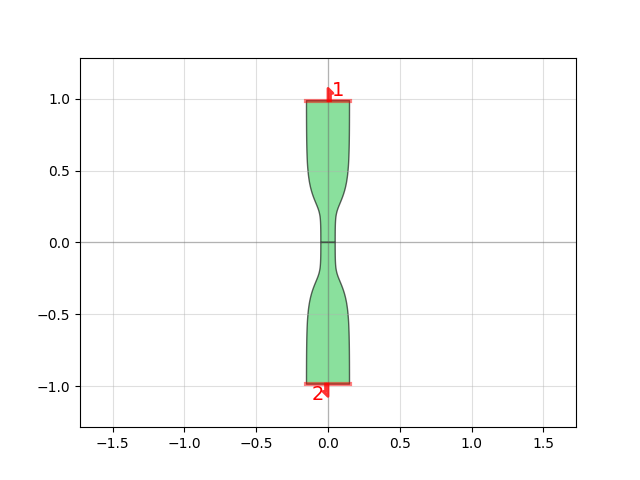
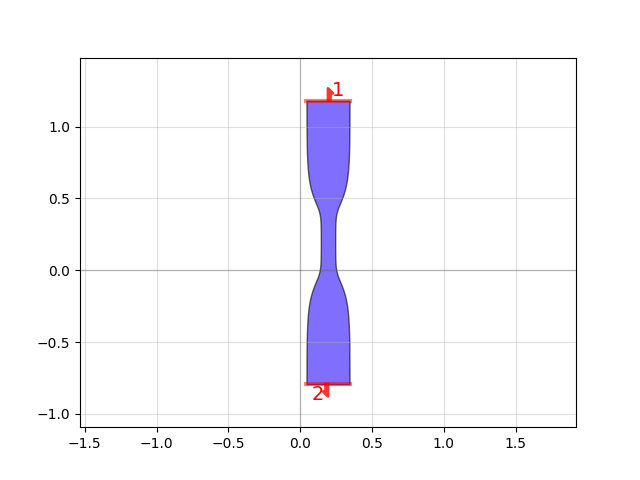
fixed spot nanowire

diff --git a/src/qnngds/devices/nanowire.py b/src/qnngds/devices/nanowire.py
@@ -26,22 +26,28 @@ def spot(
     Returns:
         Device: A device containing 2 optimal steps joined at their channel_w end.
     """
-    NANOWIRE = QnnDevice()
-    wire = pg.optimal_step(channel_w, source_w, symmetric=True, num_pts=num_pts)
+    NANOWIRE = Device('nanowire')
+    wire = pg.optimal_step(channel_w, source_w, symmetric=True, num_pts=num_pts, layer=layer)
     source = NANOWIRE << wire
     gnd = NANOWIRE << wire
     source.connect(source.ports[1], gnd.ports[1])
 
-    #NANOWIRE = pg.union(NANOWIRE, layer=layer)
+    NANOWIRE = pg.union(NANOWIRE, layer=layer)
     NANOWIRE.add_port(name=1, port=source.ports[2])
     NANOWIRE.add_port(name=2, port=gnd.ports[2])
-    nw_padplace = PadPlacement()
-    NANOWIRE.set_pads(nw_padplace)
-    NANOWIRE.rotate(-90)
-    NANOWIRE.move(NANOWIRE.center, (0, 0))
-    NANOWIRE.name = f"NANOWIRE.SPOT(w={channel_w:0.1f})"
 
-    return NANOWIRE
+    final_NANOWIRE = QnnDevice('nanowire')
+    final_NANOWIRE << NANOWIRE
+    for p, port in NANOWIRE.ports.items():
+        final_NANOWIRE.add_port(name=p, port=port)
+
+    nw_padplace = PadPlacement()
+    final_NANOWIRE.set_pads(nw_padplace)
+    final_NANOWIRE.rotate(-90)
+    final_NANOWIRE.move(NANOWIRE.center, (0, 0))
+    final_NANOWIRE.name = f"NANOWIRE.SPOT(w={channel_w:0.1f})"
+
+    return final_NANOWIRE
 
 
 def variable_length(
